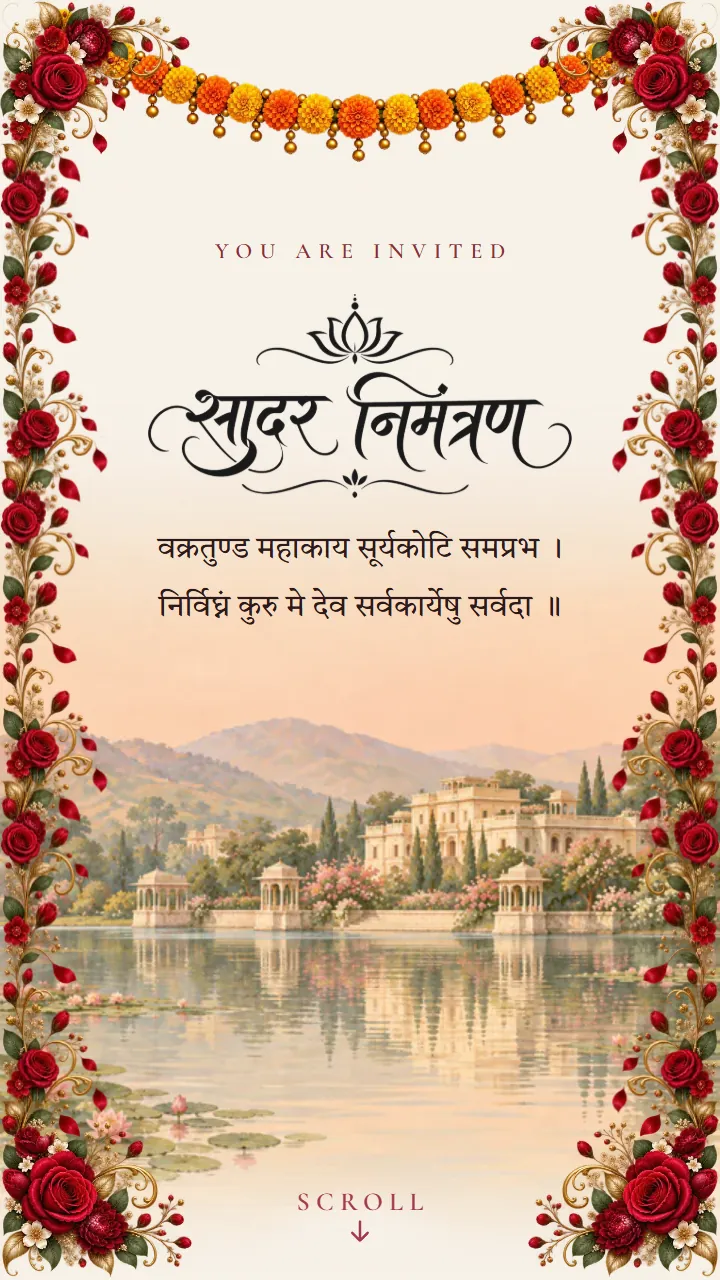
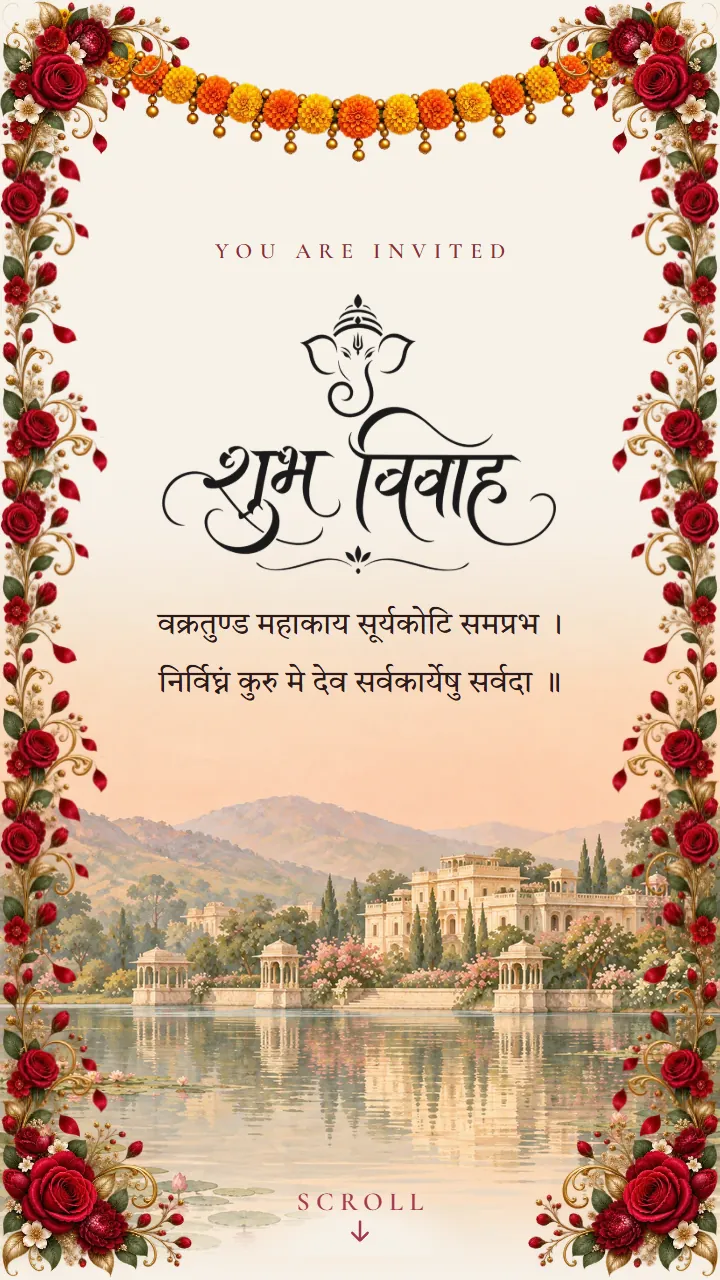
fix(traditions): restore Shri Ganesh on Hindu cards
Shubh Vivah Ivory and Maroon Royal open again with the Shubh Vivah word-mark, Shri Ganesh drawn above the words: the same artwork (calligraphy/shubh-vivah.webp) in the same place at the head of the first screen as before 01c1ec8, tinted to each card's ink as every word-mark is (near-black on Shubh Vivah's ivory, ivory on Maroon Royal's maroon). It replaces Sadar Nimantran and Vivahotsav as their opening; most Hindu wedding cards start with Shri Ganesh and hosts expect it. Everything else of the new looks stays. Om stays above the names on Shubh Vivah Ivory, since the word-mark already draws Ganesh.

No other card has Ganesh: the word-mark belongs to the Hindu pack, and the Buddhist "Shubh Vivah" draws the Jain plain-text file. The note over the presets says so.

Gallery previews and demos updated. Cards already saved keep the word-mark they were saved with: drafts kept on 01c1ec8 and on 55b7eb4 render pixel for pixel as before (the second still with Sadar Nimantran and Vivahotsav).

diff --git a/lib/presets.ts b/lib/presets.ts
@@ -189,11 +189,12 @@ const PALETTE_CHAMPAGNE = "#86672E";
  * EIGHT OF THESE ARE TRADITIONS TEMPLATES (templates/*, through
  * presetTemplate), and those eight, with Ivory Chapel and Classic, are each a
  * look no other card in the collection shares: no two share a painting and a
- * palette, or a frame and its flowers. Neither a figure nor a face is drawn
- * on any of them, so none is headed by the Shubh Vivah word-mark, which draws
- * Ganesh. Which painting each has, the colour it is printed in and the
- * garland between its sections are the template's (its config.ts), not the
- * preset's.
+ * palette, or a frame and its flowers. The two Hindu ones, Shubh Vivah Ivory
+ * and Maroon Royal, open with Shri Ganesh, as most Hindu wedding cards do: the
+ * Shubh Vivah word-mark, which draws him above the words. No other figure or
+ * face is drawn on any of them, and Ganesh on none but those two. Which
+ * painting each has, the colour it is printed in and the garland between its
+ * sections are the template's (its config.ts), not the preset's.
  *
  * EVERY VIVAH PRESET SETS EVERYTHING IT IS ABOUT: the palette and accent, the
  * type, the length, the border, the motifs' motion and amount, the
@@ -367,11 +368,12 @@ const PRESETS: readonly Preset[] = [
       petals: "both",
       petalFlower: "marigold",
       coverAnimation: "fold-unfold",
+      /* Om rather than Ganesh above the names: Shubh Vivah already draws Ganesh. */
       ornaments: ["marigold", "om", "kalash"],
       /* The marigold and mogra garland, under the marigold garland and among marigold petals. */
       namesFrame: "varmala",
-      /* Sadar Nimantran and its lotus: no figure on the word-mark. */
-      calligraphy: "sadarNimantran",
+      /* Shubh Vivah with Shri Ganesh above it: the opening a Hindu wedding card is expected to have. */
+      calligraphy: "shubhVivah",
       greetingIfNone: "ganeshaya",
       blessingIfNone: "vakratunda",
     },
@@ -463,8 +465,8 @@ const PRESETS: readonly Preset[] = [
       ornaments: ["toran", "swastik", "diya", "mandala"],
       /* A carved gold arch on maroon: the palace doorway the look is named for. */
       namesFrame: "jharokha",
-      /* Vivahotsav and its kalash: no figure on the word-mark. */
-      calligraphy: "vivahotsav",
+      /* Shubh Vivah with Shri Ganesh above it: the opening a Hindu wedding card is expected to have. */
+      calligraphy: "shubhVivah",
       greetingIfNone: "ganeshaya",
       blessingIfNone: "vakratunda",
     },
